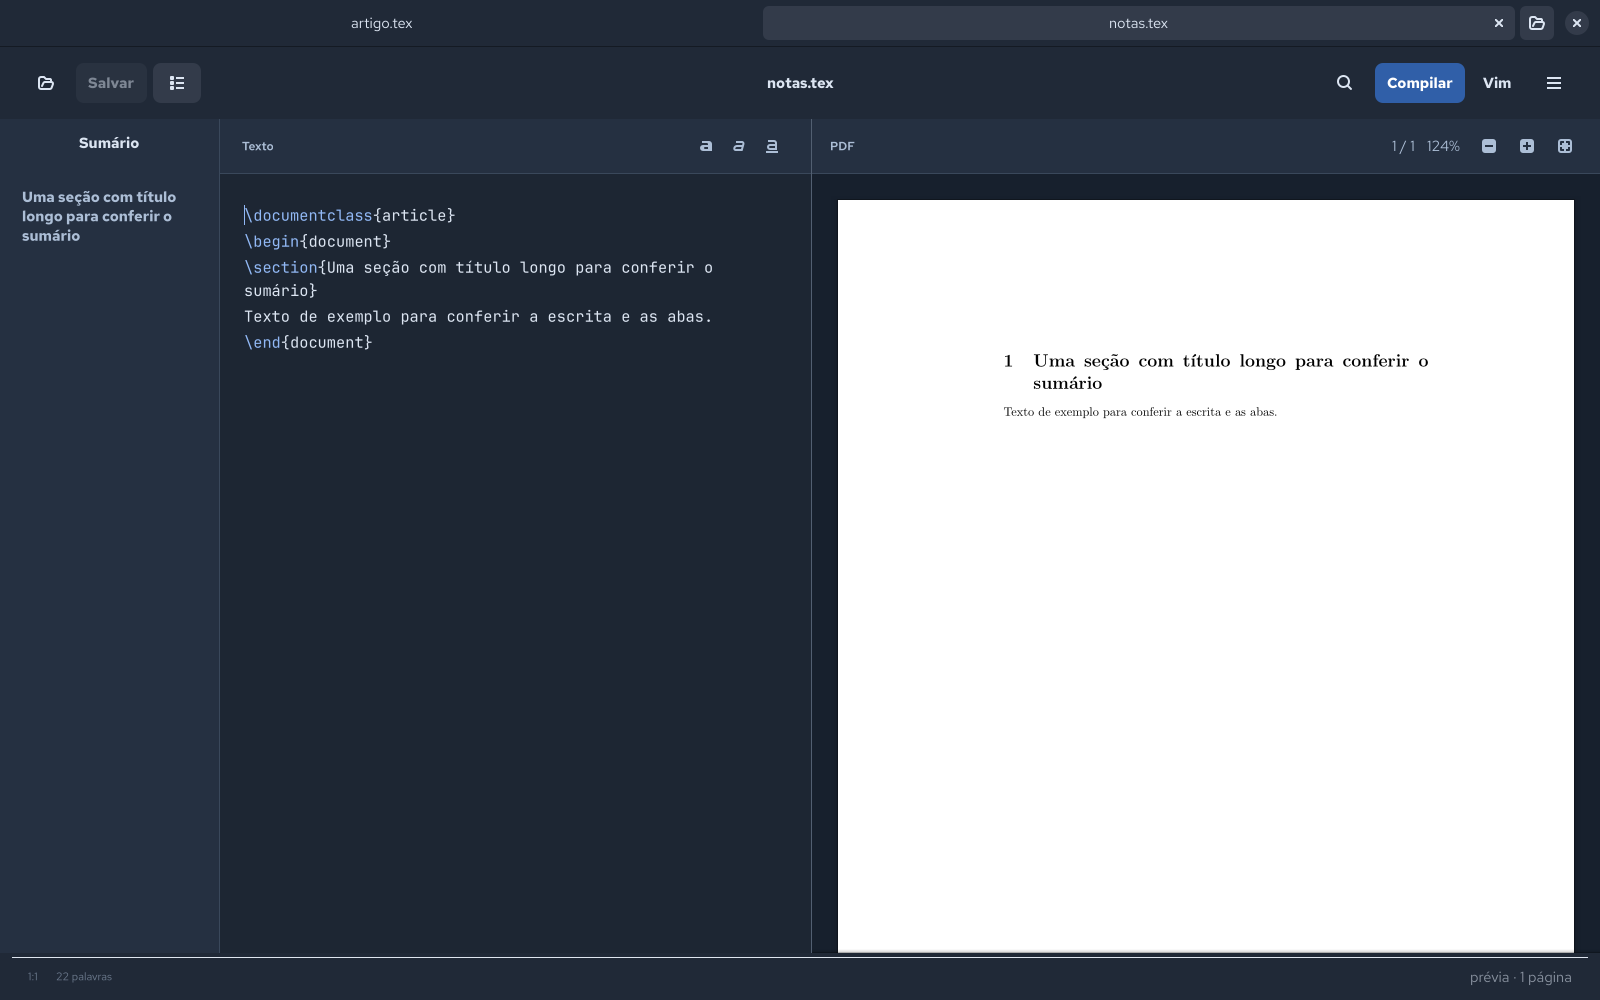
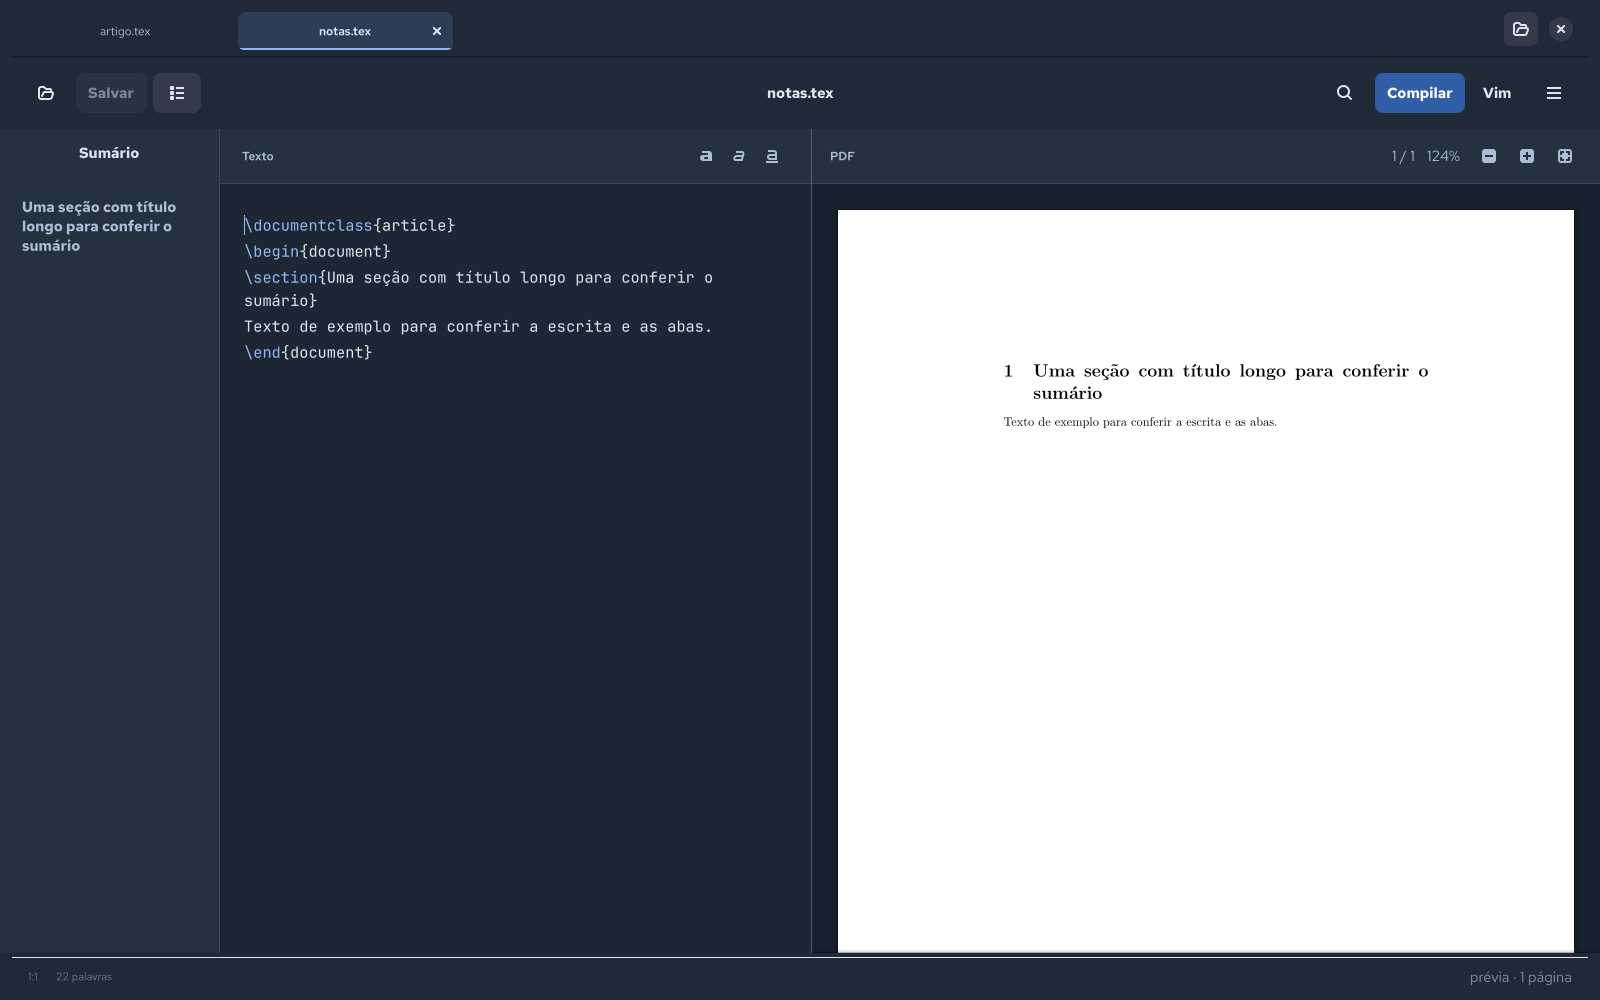
style: refine document tabs in light and dark themes

diff --git a/serifa/appearance.py b/serifa/appearance.py
@@ -41,6 +41,24 @@ window.serifa-window {{
 .serifa-header windowtitle subtitle {{ color: #68788e; font-size: 11px; }}
 .serifa-header button {{ border-radius: 8px; padding: 8px 12px; }}
 .serifa-header button.suggested-action {{ background: #305fa8; color: white; }}
+.serifa-tabs {{
+    background: #f6f8fc; box-shadow: none; border: none; padding: 6px 12px 0;
+}}
+.serifa-tabs > box {{ background: transparent; box-shadow: none; }}
+.serifa-tabs tabbox {{ background: transparent; }}
+.serifa-tabs tab {{
+    min-width: 130px; border-radius: 8px 8px 0 0;
+    background: transparent; color: #68788e; box-shadow: none;
+}}
+.serifa-tabs tab:hover {{ background: #edf1f8; color: #24344b; }}
+.serifa-tabs tab:selected {{
+    background: #e8eef8; color: #244f91;
+    box-shadow: inset 0 -2px #305fa8;
+}}
+.serifa-tabs tab label {{ font-size: 12px; }}
+.serifa-tabs tab:selected label {{ font-weight: 600; }}
+.serifa-tabs .serifa-tab-controls {{ padding: 0 4px 4px 8px; }}
+.serifa-tabs .serifa-tab-controls button {{ border-radius: 7px; }}
 textview.serifa-editor {{
     font-family: "{FONT}", "Red Hat Mono", monospace;
     font-size: {BODY_SIZE}pt; background: #ffffff; color: #24344b;
@@ -85,6 +103,11 @@ window.serifa-dark { background: #202937; color: #dce5f2;
 .serifa-dark .serifa-tools, .serifa-dark .serifa-outline,
 .serifa-dark .serifa-preview-tools, .serifa-dark .serifa-diagnostics {
  background: #253041; border-color: #3a485b; }
+.serifa-dark .serifa-tabs { background: #202937; }
+.serifa-dark .serifa-tabs tab { color: #acbed6; }
+.serifa-dark .serifa-tabs tab:hover { background: #2a3648; color: #dce5f2; }
+.serifa-dark .serifa-tabs tab:selected {
+ background: #2c3d55; color: #dce9ff; box-shadow: inset 0 -2px #91b8f5; }
 .serifa-dark textview.serifa-editor { background: #1d2633; color: #dce5f2; }
 .serifa-dark .serifa-preview { background: #17202d; }
 .serifa-dark .serifa-pane-title, .serifa-dark .serifa-outline row,

diff --git a/serifa/workspace.py b/serifa/workspace.py
@@ -25,10 +25,13 @@ class Workspace(Adw.ApplicationWindow):
         self.tabs.connect("close-page", self._close_page)
         bar = Adw.TabBar(view=self.tabs)
         bar.set_autohide(False)
+        bar.set_expand_tabs(False)
+        bar.add_css_class("serifa-tabs")
         open_button = Gtk.Button(icon_name="document-open-symbolic")
         open_button.set_tooltip_text("Abrir documento em uma aba")
         open_button.connect("clicked", self._open_dialog)
         controls = Gtk.Box(spacing=6)
+        controls.add_css_class("serifa-tab-controls")
         controls.append(open_button)
         controls.append(Gtk.WindowControls(side=Gtk.PackType.END))
         bar.set_end_action_widget(controls)
